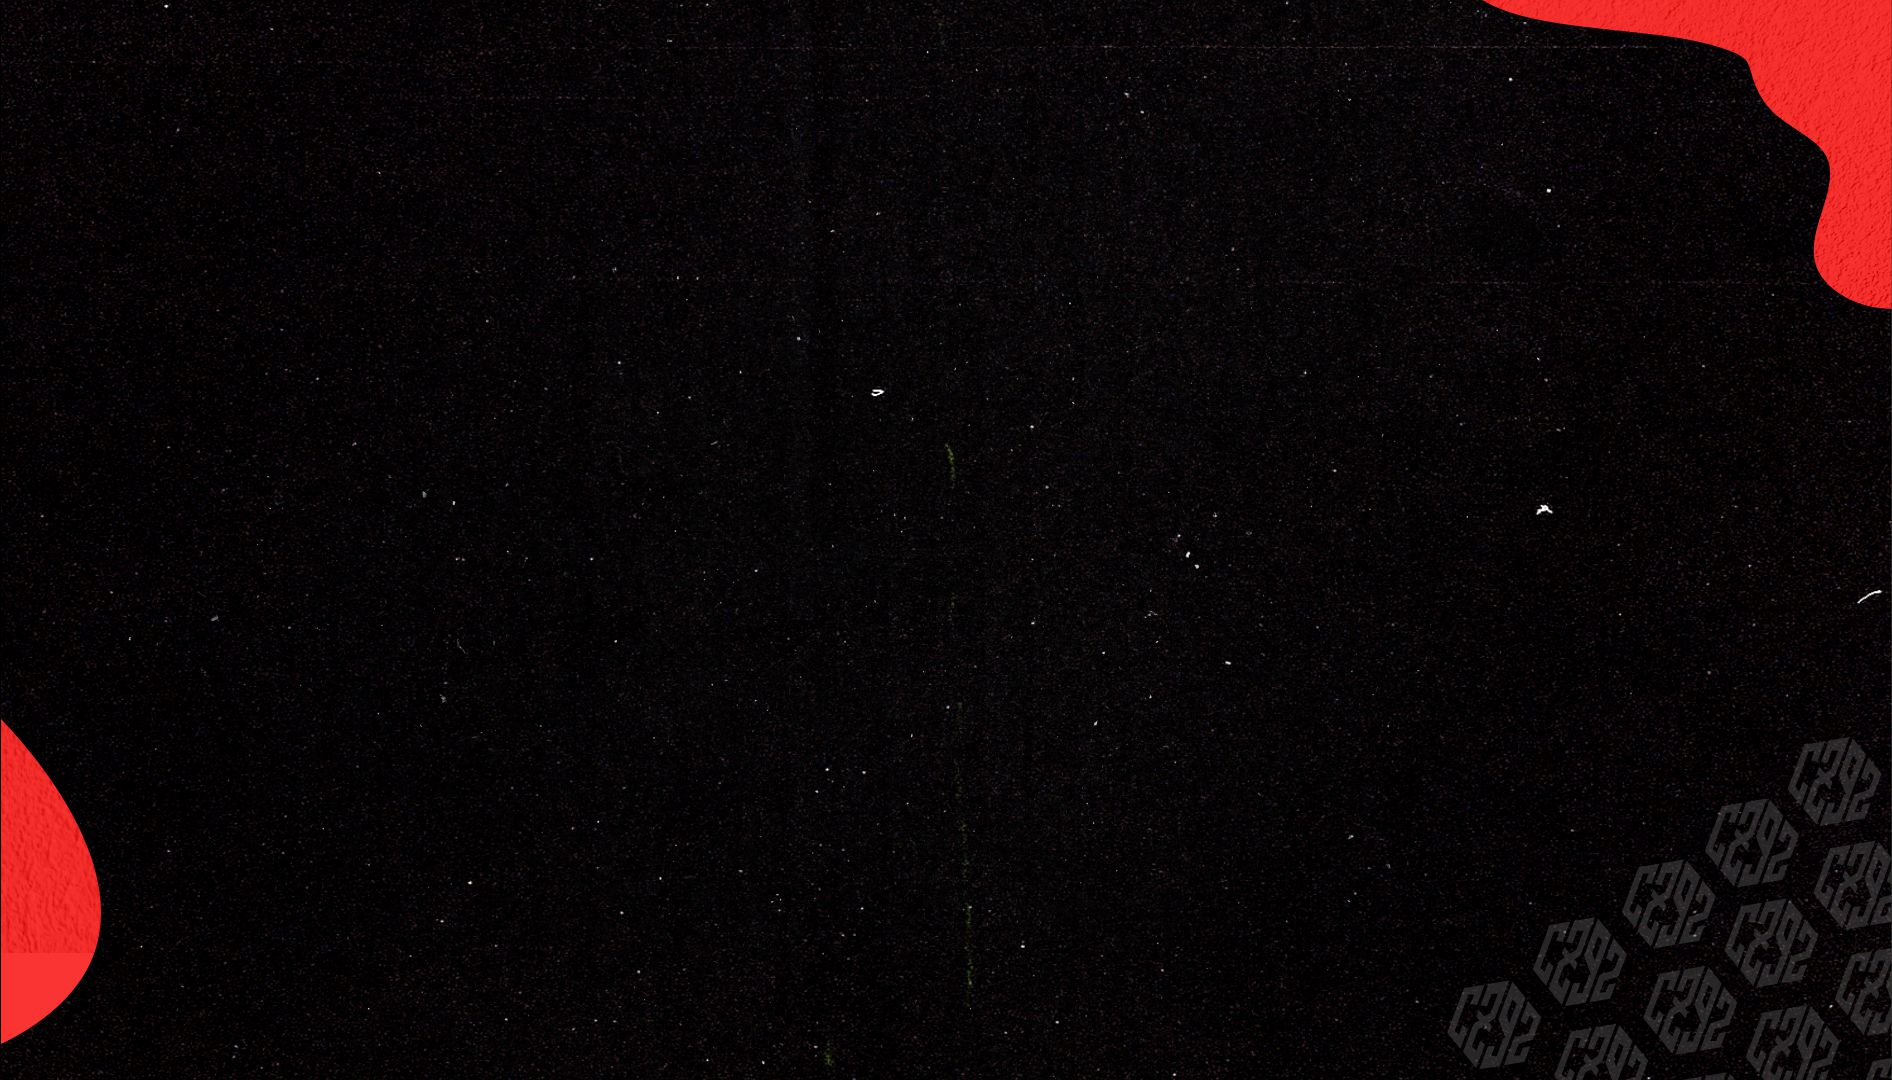
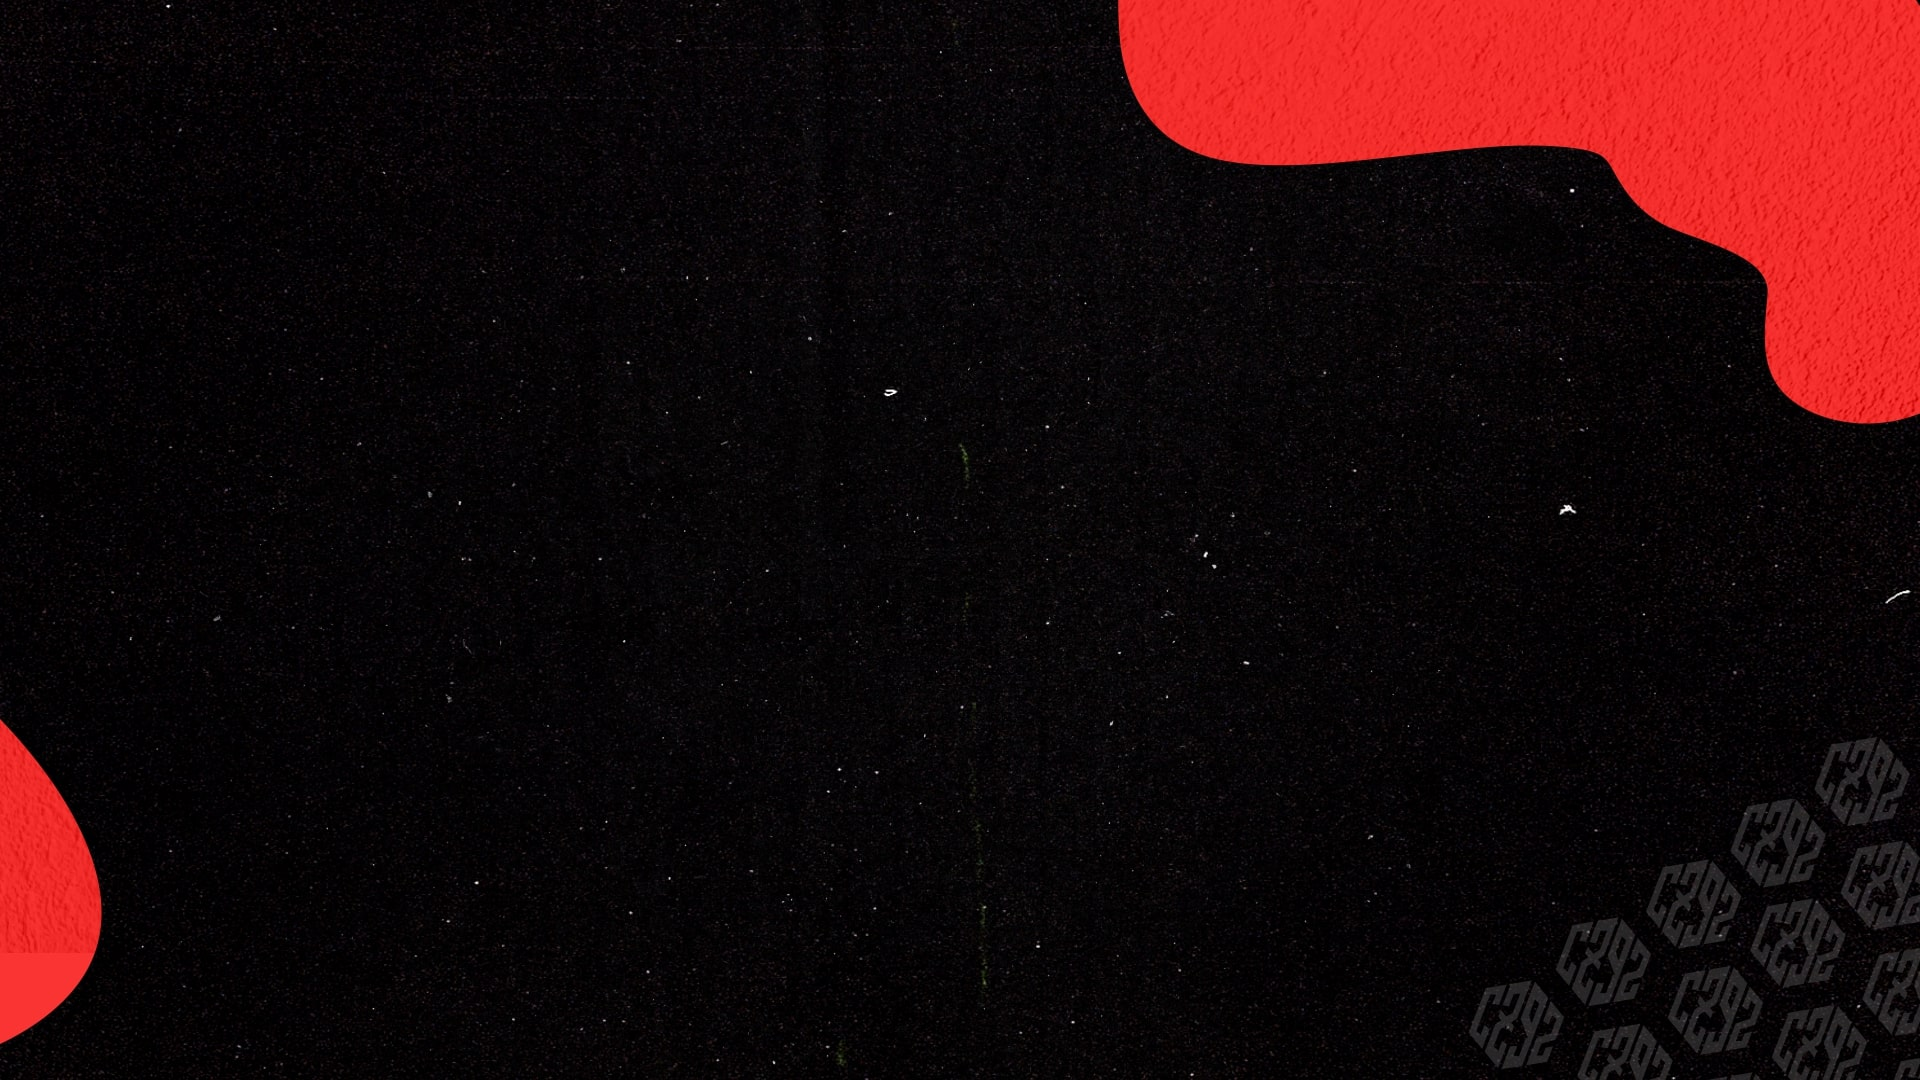
Troca de background home, correção responsivo.

Changed region(s): [[0.5613, 0.0, 1.0, 0.7944], [0.9979, 0.9472, 1.0, 1.0], [0.9979, 0.8556, 1.0, 0.8861]]

diff --git a/src/js/jogo.js b/src/js/jogo.js
@@ -21,7 +21,7 @@ let mapaAtual = 0;
 let obstaculoIniciarAnimacao = 'animation: obstaculo-animation 1.5s infinite linear;'
 let obstaculoVelocidadeAumentada = 'animation: obstaculo-velocidadeaumentada 1.2s infinite linear;'
 let obstaculoVelocidadeAumentada2x = 'animation: obstaculo-velocidadeaumentada2x 900ms infinite linear;'
-let obstaculoVelocidadeAumentada3x = 'animation: obstaculo-velocidadeaumentada3x 600ms infinite linear;'
+let obstaculoVelocidadeAumentada3x = 'animation: obstaculo-velocidadeaumentada3x 700ms infinite linear;'
 let pararAnimacao = 'none'
 let esconderObjeto = 'display: none'
 let mostrarObjeto = 'display: block'
@@ -137,20 +137,41 @@ function audioPlayPause(){
 
 const jump = ()=>{
     personagem.classList.add('jump')
+    const gameBoardPosition = +window.getComputedStyle(gameBoard[0]).width.replace('px', '');
+    // console.log(gameBoardPosition)
+    
+    /* CONDIÇÃO QUE ATIVA CONTADOR DE PONTOS DESKTOP */
+    if (gameBoardPosition > 1000){
+        
+      setTimeout(()=>{
+        const obstaculoPosition = +window.getComputedStyle(obstaculo).left.replace('px', '');
+        const personagemPositionRight = +window.getComputedStyle(personagem).right.replace('px', '');
+        // console.log(obstaculoPosition)  
+        // console.log(personagemPositionRight)
+        if(contador <= 10){
+          if(obstaculoPosition > 400 && obstaculoPosition > personagemPositionRight){
+            contadorfunction()  
+          }        
+        }
+      }, 500)
+
+      setTimeout(()=>{
+        if(contador > 10){
+          const obstaculoPosition = +window.getComputedStyle(obstaculo).left.replace('px', '');
+          console.log(obstaculoPosition) 
+          if(obstaculoPosition > 400){
+            contadorfunction()  
+          }  
+        }
+      }, 500)
+    }
+    
+
+    /* CONDIÇÃO QUE ATIVA CONTADOR DE PONTOS MOBILE */
     
     setTimeout(()=>{   
     personagem.classList.remove('jump') 
     //
-    /* CONDIÇÃO QUE ATIVA CONTADOR DE PONTOS */
-    const obstaculoPosition = obstaculo.offsetLeft;
-    console.log(obstaculoPosition)  
-    if(obstaculoPosition > 1000){
-      
-      contadorfunction()  
-
-    }  
-
-
     }, 500)
 }
 
@@ -170,13 +191,6 @@ const loop = setInterval(()=>{
         mostrarDisqueteSalvar()
         botaoReset[0].style = mostrarObjeto
         clearInterval(loop)
-        
-        
-        // if( obstaculoPositionRightWindow == -200){
-        //   console.log(obstaculoPositionRightWindow)
-
-        // }
-        
         
 
         /* REINICIA AS CONDIÇÕES DE JOGO PARA O PERSONAGEM */ 

diff --git a/src/css/style.css b/src/css/style.css
@@ -23,6 +23,7 @@
   align-items: flex-end;
   width: 100%;
   gap: 15px;
+  /* display: none; */
 }
 
 .icon {
@@ -35,7 +36,24 @@
 
 .home-container.mostrar {
   display: flex;
+  flex-direction: column;
+  /* border: 1px solid white; */
+  align-items: center;
+  justify-content: flex-end;
+  gap: 30px;
 }
+
+.imgHome{
+  width: 500px;
+  text-align: center;
+  /* margin-right: 50px; */
+  position: absolute;
+  bottom: 0;
+  right: 0;
+
+}
+
+
 
 /* LOJA */
 

diff --git a/index.html b/index.html
@@ -55,6 +55,7 @@
     <main>
     </main>
     <section class="conteudo home-container mostrar ">
+        <img class="imgHome" src="src/images/imgHome.png" alt="">
         <ul class="icones">
             <li class="icon iconspot"><a href="https://open.spotify.com/artist/4EubQP2SiqWFpfzPUzaiHu"
                     target="_blank"><img src="src/images/spotify.png"></a></li>

diff --git a/src/css/responsivo.css b/src/css/responsivo.css
@@ -294,6 +294,22 @@ nav li{
     color:white;
   }
 
+  .home-container{
+    min-height: 100vw;
+  }
+  .imgHome{
+    width: 350px;
+    position: absolute;
+    bottom: -100px;
+  }
+
+  .icones{
+    position:absolute;
+    top: 150px;
+    /* display: none; */
+  }
+
+
 }
 
 @media (max-width: 350px) {
